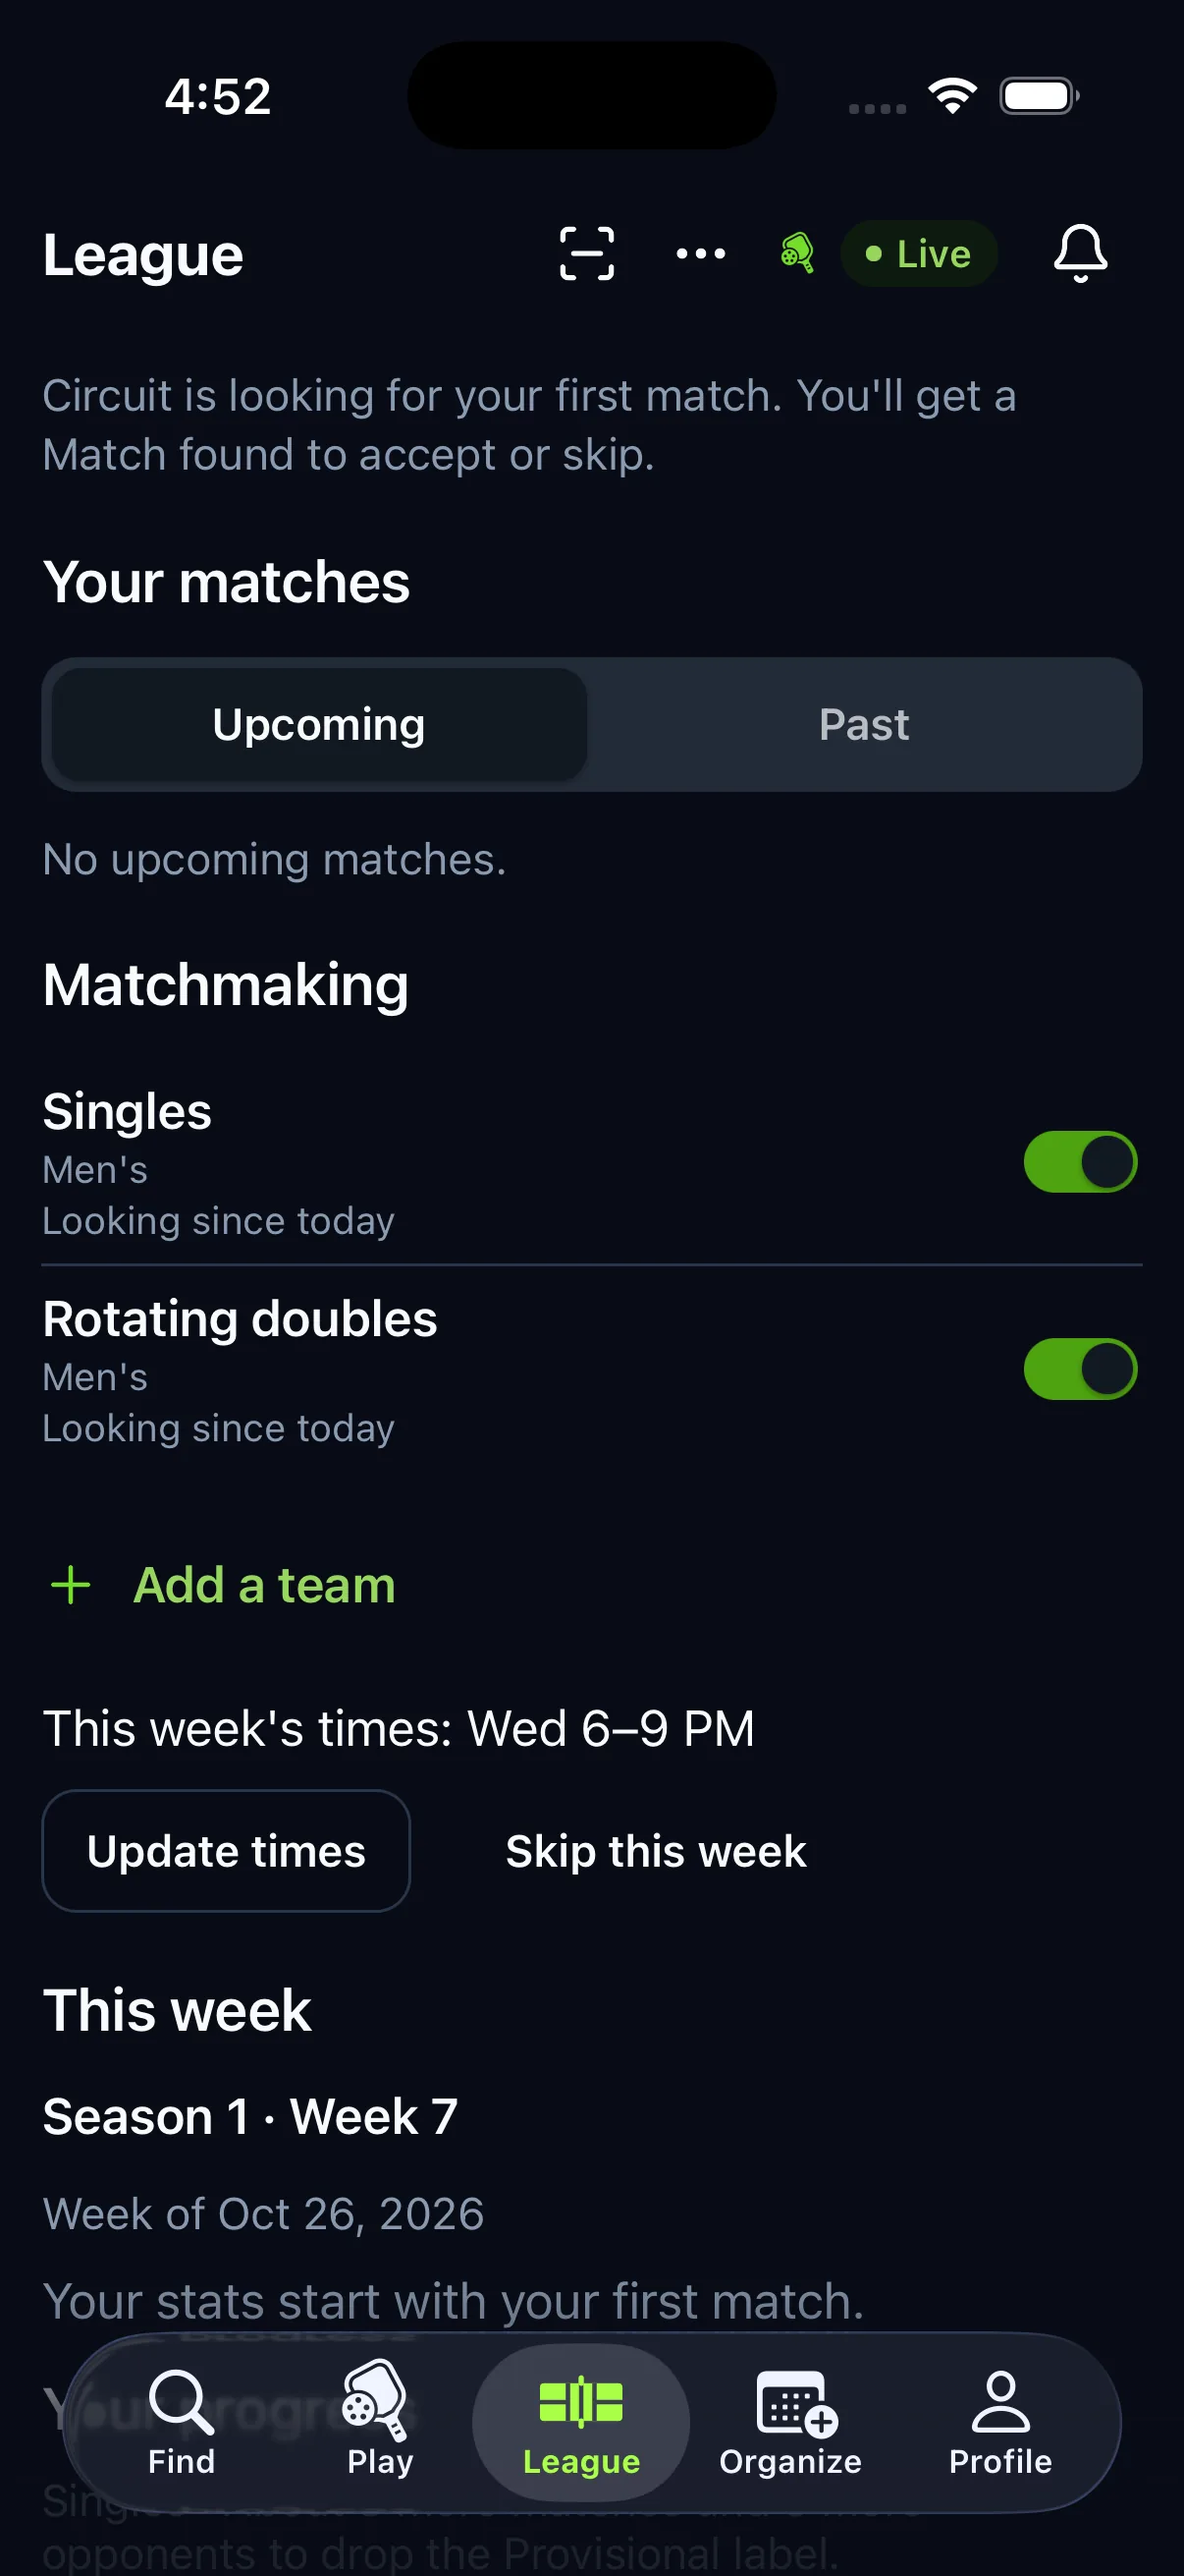
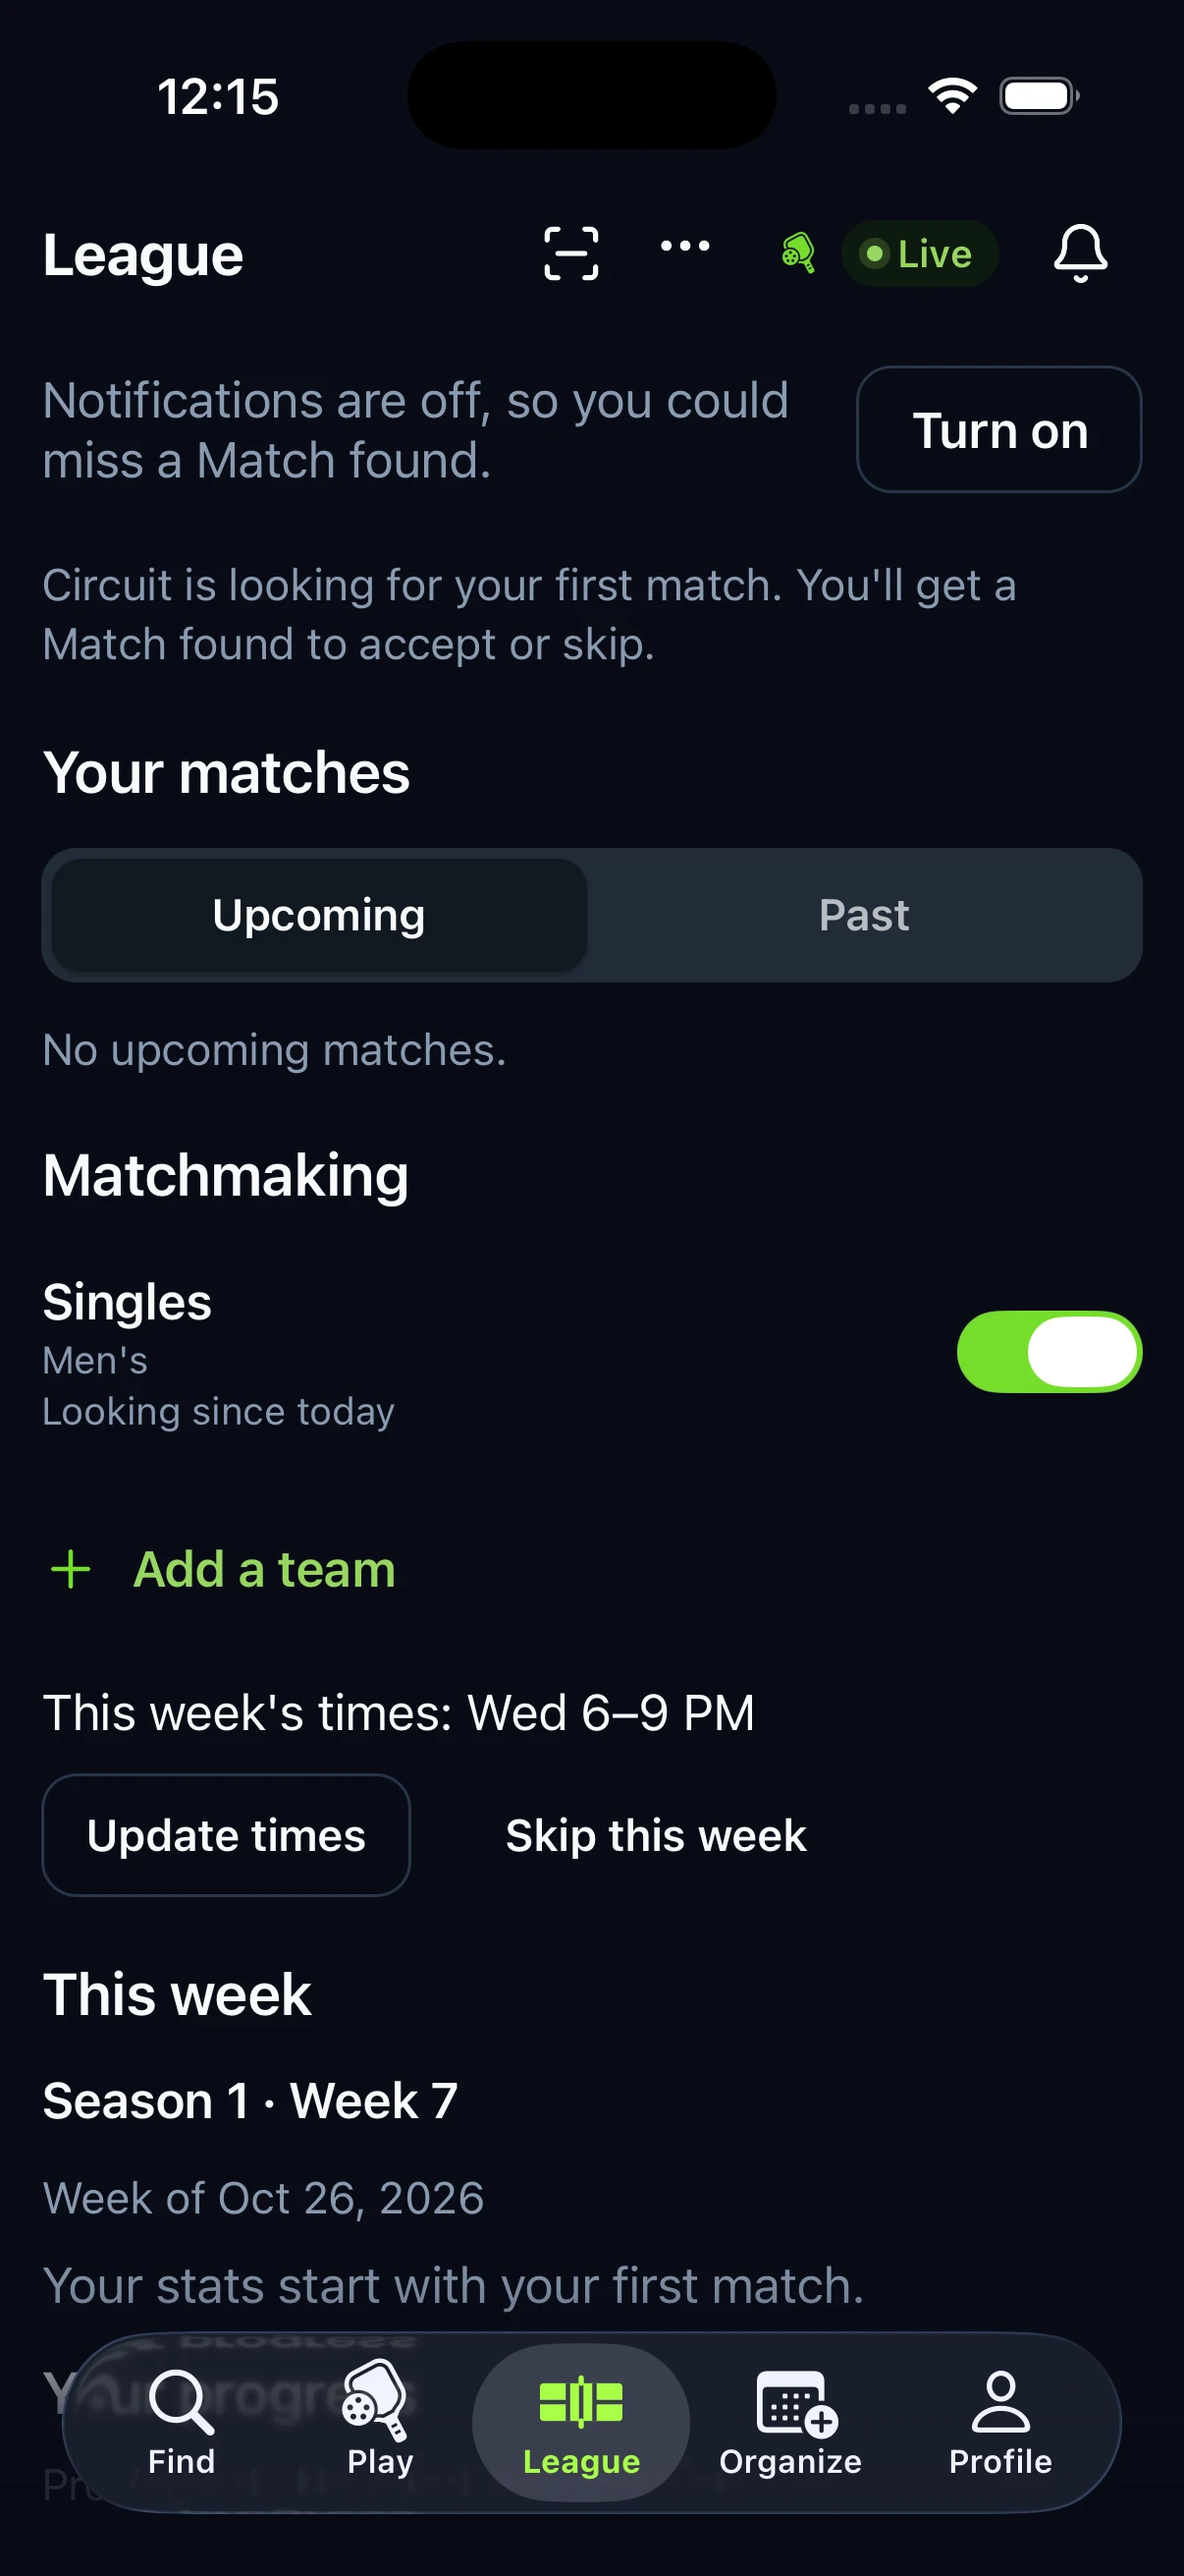
docs(walkthrough): refresh iOS League screenshots
Problem and impact: People viewing the League walkthrough saw older action sheets and switch designs after the iOS app had moved to native menus and controls. That made the tour misleading when compared with the current app.

Changed outcome: Eleven screenshots now show current League setup, home, menu, match, team, notification, settings and conduct reminder screens. Captions and capture records explain where the rebuilt fictional League differs from the earlier story, and refreshed image URLs avoid serving stale cached images.

Example: The match actions image previously showed a bottom sheet. It now shows the anchored iOS menu with its action icons and destructive cancel action.

Reasoning and risk: Images were captured from the real app against an isolated fictional database. The check-in setup used a temporary development entry to reach the actual post-join screen; that source change was reverted. The native-menu icon fix shown is still uncommitted in the app checkout, and unchanged tour images retain their earlier capture provenance.

Verification: The image manifest matches all 84 asset hashes, and the viewer was inspected at 360x800, 390x844 and 1280x900 with no horizontal overflow. The full-size check-in image loaded and Next advanced to the following screen. git diff --cached --check passed.

Follow-up: Publish the walkthrough separately when authorized, and land the app icon fix independently.

diff --git a/index.html b/index.html
@@ -135,7 +135,7 @@ dialog#lb[open] { display: grid; grid-template-rows: auto minmax(0, 1fr) auto; }
 
 <footer class="wrap notes">
   <h2>About this tour</h2>
-  <p>Captured October 26, 2026 on an iPhone 17 Pro simulator running iOS 26.4, in Dark appearance at the Default app text size. Every person, match, venue and safety record is fictional local test data.</p>
+  <p>Captured October 26–27, 2026 on an iPhone 17 Pro simulator running iOS 26.4, in Dark appearance at the Default app text size. Eleven screens were recaptured using a rebuilt fictional League, so their match and team details can differ from the original story. Every person, match, venue and safety record is fictional local test data.</p>
   <p>Screens show the state the app was in at capture time, so some show a step in progress, such as a score waiting for the other side. <a href="current-evidence.md">Verification and known gaps</a> · <a href="current-captures.json">Capture list</a></p>
 </footer>
 
@@ -154,6 +154,7 @@ dialog#lb[open] { display: grid; grid-template-rows: auto minmax(0, 1fr) auto; }
 </dialog>
 
 <script>
+const REFRESHED_20261027 = new Set(['08-setup-options', '10d-setup-check-in', '11-blake-home', '12-home', '13-league-menu', '19b-match-menu', '43-team-settings', '46-settings', '46b-settings-lower', '47-notification-settings', '53-home-conduct-task']);
 const CHAPTERS = [
   { id: 'discover', title: 'Discover the League', who: 'What a player sees on the League tab before joining.', person: 'Blake', shots: [
     ['01-intro-match', 'Always open', 'Circuit proposes matches near you, at your times, against players at your level. Joining is free, any day of the year.'],
@@ -169,16 +170,16 @@ const CHAPTERS = [
     ['07-setup-times', 'Your times', 'Add the times you can play this week or next. Skipping this step is allowed, but matchmaking waits for times.'],
     ['07b-setup-time-grid', 'Pick hours', 'Wednesday 6 to 9 PM. No time zone: Blake’s phone already reads the venues’ clock. A phone on another clock would see “Central”.'],
     ['07c-setup-times-saved', 'Times saved', 'Wednesday 6–9 PM is saved; Edit times or the × changes it.'],
-    ['08-setup-options', 'Matching options', 'Matches are three games to 11, win by 2. Optional: a wider level range after a long wait, and auto-accepting matches inside your times.'],
+    ['08-setup-options', 'Matching options', 'Matches are three games to 11, win by 2. Blake can allow a wider level range; automatic matching and acceptance need saved venues and times.'],
     ['09-setup-terms', 'Release and terms', 'Join the League stays off until both boxes are checked, and the footer says so.'],
     ['09b-setup-acceptances', 'Both accepted', 'The release and the League terms, including individual arbitration, are accepted separately. The full terms open from the link.'],
     ['10-setup-next', 'You’re in', 'Matches depend on who else is free at your times and venues; some weeks there won’t be one. Start matchmaking turns the search on.'],
     ['10b-setup-notifications-prompt', 'Notifications', 'Match offers need an answer within a few hours, so setup asks for notification permission.'],
     ['10d-setup-check-in', 'Automatic check-in', 'Optional and on by default. Near match time, location checks you in and tells players already checked in. Your position stays on your phone.'],
-    ['11-blake-home', 'Blake’s League home', 'Searching for a first match in Singles and Rotating doubles, with this week’s times and Skip this week one tap away.'],
+    ['11-blake-home', 'Blake’s League home', 'Searching for a first singles match, with this week’s times and Skip this week one tap away.'],
   ]},
   { id: 'home', title: 'Casey’s League home', who: 'Seven weeks in: what needs attention, upcoming matches and standing.', person: 'Casey', shots: [
-    ['12-home', 'Home', '#1 in the Austin area for Women’s singles. Wednesday’s match with Sofia is confirmed, and singles search stopped after it was booked.'],
+    ['12-home', 'Home', 'Casey has a confirmed singles match with Maya, and can add times or manage their doubles team.'],
     ['12b-home-lower', 'This week', 'Season 1, week 7. Last week’s published standings put Casey #1 in the Austin area, Texas and everywhere, still Provisional. The info button holds the detail.'],
     ['12c-standings-info', 'How standings work', 'The info button explains how rank is worked out and how close Casey is to dropping the Provisional label.'],
     ['12c-home-bottom', 'More League', 'The full leaderboard, last week’s recap, saved venues and invites.'],
@@ -239,7 +240,7 @@ const CHAPTERS = [
     ['41-add-team', 'New team', 'Choose Women’s or Mixed doubles, then Create invite link. There is no player search: a partner is someone Casey already knows.'],
     ['41b-add-team-share', 'Send the link', 'The share sheet opens with the link, ready to text to a friend. It works for 7 days, and only the first person to open it can accept.'],
     ['41c-add-team-link-saved', 'Link saved', 'The invite waits under Matchmaking, with Share link to send it again and Cancel invite. Maya opens it on her own phone and accepts.'],
-    ['43-team-settings', 'Team page', 'Casey and Maya’s Women’s doubles team: times, match settings, Out for now, and End this team last.'],
+    ['43-team-settings', 'Team page', 'Casey and Maya’s Women’s doubles team has not started matchmaking yet. Out for now and End this team remain available.'],
   ]},
   { id: 'scan', title: 'Scan to play', who: 'Already at the courts with someone? Set up a League match on the spot.', person: 'Casey', shots: [
     ['44-scan', 'Plan the match', 'The nearest League venues come first, each with its distance, when the phone already allows location. Without it, saved venues lead.'],
@@ -282,7 +283,7 @@ CHAPTERS.forEach((c, ci) => {
   for (const [file, t, d] of c.shots) {
     const idx = all.length;
     const n = String(idx + 1).padStart(2, '0');
-    const src = `img/oct26/${file}.webp`;
+    const src = `img/oct26/${file}.webp${REFRESHED_20261027.has(file) ? "?v=20261027" : ""}`;
     all.push({ n, t, d, src, chapter: c.title });
     const el = document.createElement('article');
     el.className = 'shot'; el.id = `s${n}`;

diff --git a/README.md b/README.md
@@ -4,7 +4,9 @@
 
 One page follows two fictional players through Circuit League on iPhone. Blake joins: intro, the four setup stages, notifications and automatic check-in. Casey has played for seven weeks: offers, chat, score reporting and review, leaderboards, player records, the weekly recap, fixed teams, Scan to play, settings, safety and notifications.
 
-All 84 screens were captured on October 26, 2026 on an iPhone 17 Pro simulator (iOS 26.4) in Dark appearance at the Default app text size. Most come from one walkthrough of the app on local main, after commit `e4e2ed091` and the setup check-in step fix that followed it. Ten were recaptured that evening after the second polish pass and the new match chat reactions (local main `8babf9c93`). Seven more were captured or recaptured later that night after the reaction badge and standings info changes (local main `b9c600d12`). Eighteen were recaptured after that, once in-app times showed a zone only when the phone's clock differs and Scan to play listed the nearest venues first (local main `01e6c876f`). Three team screens were recaptured last, once partner invites became link-only (local main `ee207be70`). Two chat screens were replaced and three added after League and Ladder chat moved to one shared message menu, with Reply, Copy, Mute, Report and Block (local main `8d80f68cc`). Tap any screen to step through the tour full size; arrow keys and swipes move between screens, and `#s12`-style links open a specific screen.
+The original 84 screens were captured on October 26, 2026 on an iPhone 17 Pro simulator (iOS 26.4) in Dark appearance at the Default app text size. Most come from one walkthrough of the app on local main, after commit `e4e2ed091` and the setup check-in step fix that followed it. Ten were recaptured that evening after the second polish pass and the new match chat reactions (local main `8babf9c93`). Seven more were captured or recaptured later that night after the reaction badge and standings info changes (local main `b9c600d12`). Eighteen were recaptured after that, once in-app times showed a zone only when the phone's clock differs and Scan to play listed the nearest venues first (local main `01e6c876f`). Three team screens were recaptured last, once partner invites became link-only (local main `ee207be70`). Two chat screens were replaced and three added after League and Ladder chat moved to one shared message menu, with Reply, Copy, Mute, Report and Block (local main `8d80f68cc`). Tap any screen to step through the tour full size; arrow keys and swipes move between screens, and `#s12`-style links open a specific screen.
+
+Eleven screens were recaptured on October 27 with a rebuilt fictional League and current local app source (commit `b36cbc2d9` plus an uncommitted native-menu icon fix). The new match and team states may differ from the original story. The post-join check-in screen was opened using a temporary development-only setup entry that was reverted after capture.
 
 All people, matches, venues and safety records are fictional local test data. [Capture list](current-captures.json) names every screen and its source file. [Verification and known gaps](current-evidence.md) records what was checked and what the tour does not show.
 

diff --git a/current-evidence.md b/current-evidence.md
@@ -1,8 +1,14 @@
 # Walkthrough evidence
 
-Updated October 26, 2026.
+Updated October 27, 2026.
 
-## How the screens were captured
+## October 27 recaptures
+
+Eleven screens were recaptured on an iPhone 17 Pro simulator using iOS 26.4, Dark appearance, Default app text size and the normal iOS text size. The app used local `b36cbc2d9` and an uncommitted native-menu icon color fix. The rebuilt isolated database contains fictional players, venues, a match and a team; these states are not identical to the earlier walkthrough. The matching options, check-in setup, both player home screens, League menu, match menu, team page, both League settings views, notification settings and the conduct reminder now show the current controls. For the check-in capture, a temporary development-only entry opened the real post-join component for the fictional account; the source change was reverted afterward.
+
+The updated viewer was checked at 360×800, 390×844 and 1280×900 with no horizontal page overflow; the full-size check-in image loaded and Next advanced to Blake’s home. All 84 asset hashes in the capture list match the image files.
+
+## How the original screens were captured
 
 Every screen comes from one hands-on walkthrough of the Circuit League player app on an iPhone 17 Pro simulator, iOS 26.4, Dark appearance, Default app text size and the normal iOS text size. The app ran from local main after commit `e4e2ed091` plus the setup check-in fix described below, against an isolated local database with fictional players.
 
